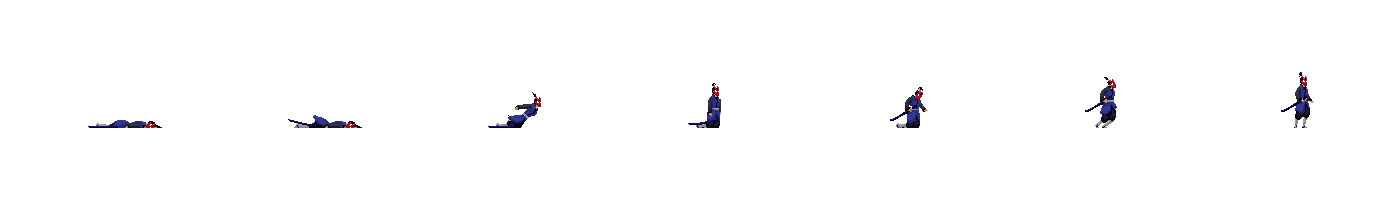
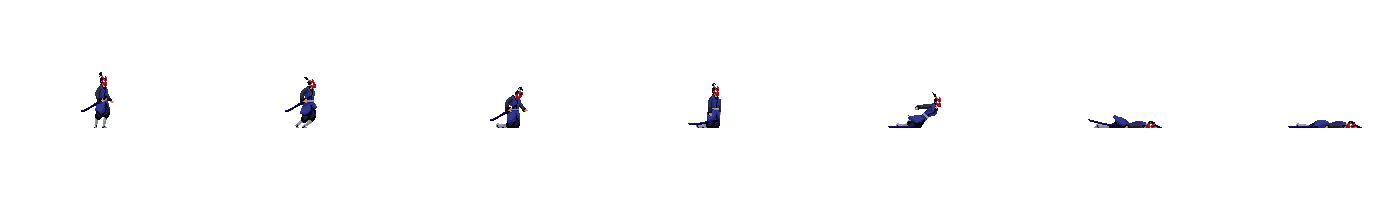
correct frame flips

diff --git a/src/fighter.ts b/src/fighter.ts
@@ -19,7 +19,8 @@ export class Fighter {
     | "attack1"
     | "attack2"
     | "fall"
-    | "take hit" = "idle";
+    | "takeHit"
+    | "death" = "idle";
 
   private image = new Image();
   private props: FighterProps;
@@ -39,6 +40,8 @@ export class Fighter {
   private isJumping = false;
   private isAttacking = false;
   private isTakingHit = false;
+  private isDying = false;
+  private isDead = false;
 
   public set takingHit(v: boolean) {
     this.isTakingHit = v;
@@ -143,7 +146,7 @@ export class Fighter {
     );
   }
 
-  private draw() {
+  private determineAction() {
     if (this.velocity.x != 0) {
       this.action = "run";
     }
@@ -160,19 +163,37 @@ export class Fighter {
       this.action = `attack${this.attackType}`;
     }
     if (this.isTakingHit) {
-      this.action = "take hit";
+      this.action = "takeHit";
+    }
+    if (this.health === 0) {
+      this.action = "death";
     }
 
     this.props.frames =
       Constants.actionFrameCount[this.props.type][this.action];
-    this.image.src = `../src/assets/${this.props.type}-${this.direction}/${this.action}.png`;
+  }
+
+  private draw() {
+    this.determineAction();
 
     if (this.framesElapsed++ % this.holdFrame == 0) {
       if (++this.currentFrame >= this.props.frames) {
         this.currentFrame = 0;
+
+        if (this.isDying) {
+          this.isDead = true;
+        }
       }
       this.framesElapsed = 1;
     }
+
+    if (this.isDead) {
+      this.currentFrame =
+        Constants.actionFrameCount[this.props.type]["death"] - 1;
+    }
+
+    this.image.src = `../src/assets/${this.props.type}-${this.direction}/${this.action}.png`;
+
     if (this.direction === "right") return this.drawRight();
     if (this.direction === "left") return this.drawLeft();
   }
@@ -246,7 +267,7 @@ export class Fighter {
           other.health = 0;
         }
         resolve(true);
-      }, 1000 / Constants.actionFrameCount[this.props.type]["attack1"]);
+      }, 1000 / Constants.actionFrameCount[this.props.type][`attack${this.attackType}`]);
     });
     return await attackPromise;
   }
@@ -278,5 +299,15 @@ export class Fighter {
       );
     }
     return false;
+  }
+
+  public gotAttacked() {
+    this.takingHit = true;
+    if (this.health === 0) {
+      this.action = "death";
+      this.currentFrame = 0;
+      this.framesElapsed = 1;
+      this.isDying = true;
+    }
   }
 }

diff --git a/src/game.ts b/src/game.ts
@@ -83,7 +83,7 @@ export class Game {
         case " ":
           const playerAttackSuccessful = await this.player.attack(this.enemy);
           if (playerAttackSuccessful) {
-            this.enemy.takingHit = true;
+            this.enemy.gotAttacked();
           }
           break;
         case "ArrowLeft":
@@ -102,7 +102,7 @@ export class Game {
         case "Return":
           const enemyAttackSuccessful = await this.enemy.attack(this.player);
           if (enemyAttackSuccessful) {
-            this.player.takingHit = true;
+            this.player.gotAttacked();
           }
           break;
       }
@@ -235,5 +235,4 @@ export class Game {
     this.loop();
     this.startTimer();
   }
-
 }

diff --git a/src/constants.ts b/src/constants.ts
@@ -19,7 +19,8 @@ export class Constants {
       attack1: 6,
       attack2: 6,
       run: 8,
-      "take hit": 4,
+      takeHit: 4,
+      death: 6,
     },
     enemy: {
       idle: 4,
@@ -28,7 +29,8 @@ export class Constants {
       attack1: 4,
       attack2: 4,
       run: 8,
-      "take hit": 3,
+      takeHit: 3,
+      death: 7,
     },
   };
 }
